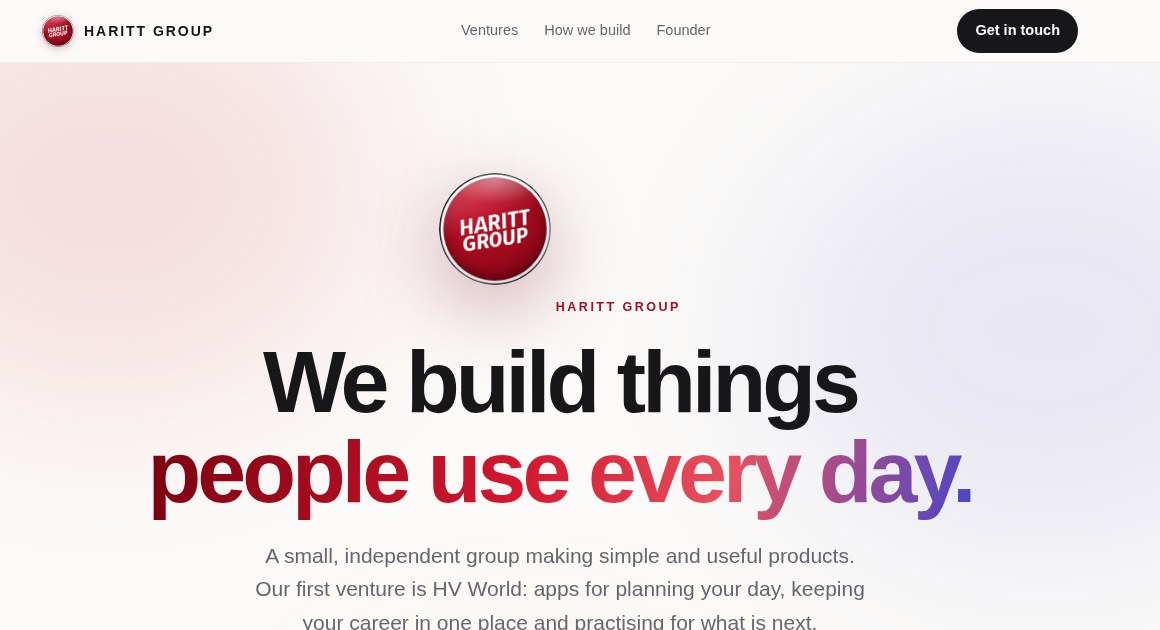
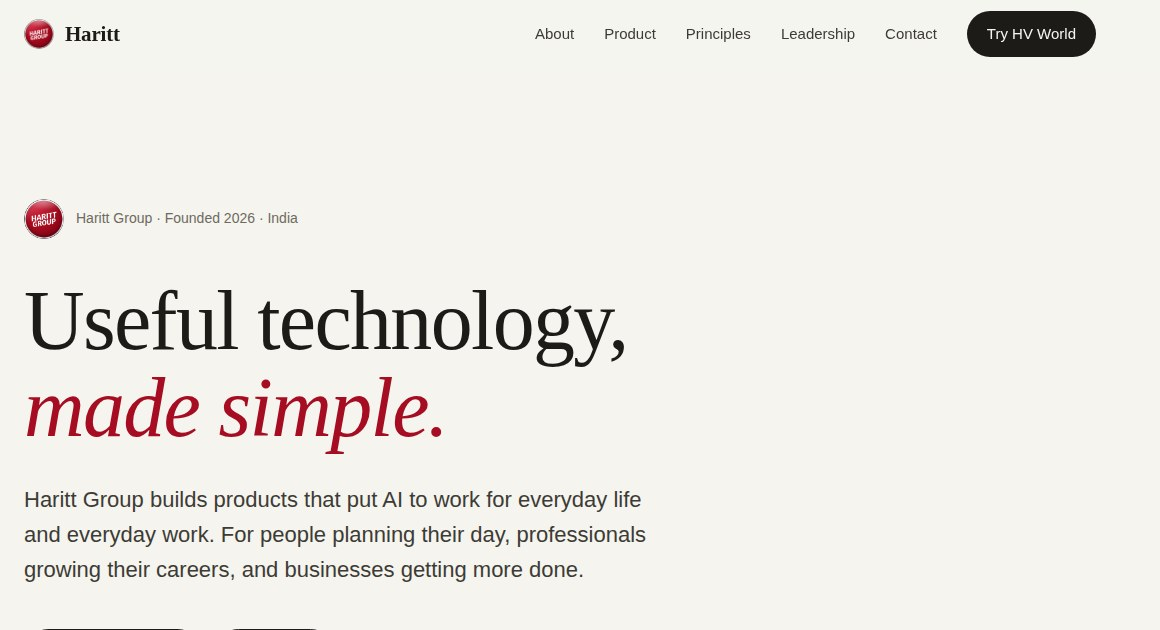
HV World update

diff --git a/index.html b/index.html
@@ -1,75 +1,272 @@
-<!DOCTYPE html><html lang="en"><head><meta charset="utf-8"><meta name="viewport" content="width=device-width, initial-scale=1">
-<title>Haritt Group</title><meta name="description" content="Haritt Group builds simple, useful products for everyday life. Home of HV World.">
-<meta name="theme-color" content="#FBFAF8"><link rel="icon" href="/logo.png" type="image/png"><link rel="apple-touch-icon" href="/logo.png">
-<meta property="og:type" content="website"><meta property="og:site_name" content="Haritt Group"><meta property="og:title" content="Haritt Group"><meta property="og:description" content="Simple, useful products for everyday life. Home of HV World."><meta property="og:url" content="https://haritt.com/"><meta property="og:image" content="https://haritt.com/og.jpg"><meta name="twitter:card" content="summary_large_image"><meta name="twitter:image" content="https://haritt.com/og.jpg">
+<!DOCTYPE html>
+<html lang="en">
+<head>
+<meta charset="utf-8">
+<meta name="viewport" content="width=device-width, initial-scale=1">
+<title>Haritt Group · Useful technology, made simple</title>
+<meta name="description" content="Haritt Group builds simple, useful products with AI for individuals, professionals and businesses. Home of HV World.">
+<meta name="theme-color" content="#F5F4EF">
+<link rel="icon" href="/logo.png" type="image/png">
+<link rel="apple-touch-icon" href="/logo.png">
+<link rel="canonical" href="https://haritt.com/">
+<meta property="og:type" content="website">
+<meta property="og:site_name" content="Haritt Group">
+<meta property="og:title" content="Haritt Group · Useful technology, made simple">
+<meta property="og:description" content="We build simple, useful products with AI for individuals, professionals and businesses. Home of HV World.">
+<meta property="og:url" content="https://haritt.com/">
+<meta property="og:image" content="https://haritt.com/og.jpg">
+<meta name="twitter:card" content="summary_large_image">
+<meta name="twitter:image" content="https://haritt.com/og.jpg">
+<link rel="preconnect" href="https://fonts.googleapis.com">
+<link rel="preconnect" href="https://fonts.gstatic.com" crossorigin>
+<link href="https://fonts.googleapis.com/css2?family=Source+Serif+4:opsz,wght@8..60,400;8..60,500;8..60,600&family=Inter:wght@400;500;600&display=swap" rel="stylesheet">
+<script type="application/ld+json">{"@context":"https://schema.org","@type":"Organization","name":"Haritt Group","url":"https://haritt.com","logo":"https://haritt.com/logo.png","email":"hello@haritt.com","founder":{"@type":"Person","name":"Harsh Goyal"},"subOrganization":{"@type":"Organization","name":"HV World","url":"https://hvworld.haritt.com"}}</script>
 <style>
-:root{--ink:#17171A;--soft:#66666E;--faint:#8E8E96;--line:#ECEAE6;--bg:#FBFAF8;--red:#A70D22;--red2:#D3172F;--indigo:#4A46C9;--font:-apple-system,BlinkMacSystemFont,"SF Pro Display","SF Pro Text","Helvetica Neue",Helvetica,Arial,sans-serif}
-*{box-sizing:border-box}html{scroll-behavior:smooth;overflow-x:hidden}body{margin:0;background:var(--bg);color:var(--ink);font:17px/1.6 var(--font);-webkit-font-smoothing:antialiased;overflow-x:hidden}
-a{color:inherit}.w{max-width:1080px;margin:0 auto;padding:0 22px}
-nav{position:sticky;top:0;z-index:20;background:rgba(251,250,248,.78);-webkit-backdrop-filter:saturate(180%) blur(18px);backdrop-filter:saturate(180%) blur(18px);border-bottom:1px solid rgba(0,0,0,.05)}
-nav .w{display:flex;align-items:center;justify-content:space-between;height:62px}
-.br{display:flex;align-items:center;gap:10px;text-decoration:none;font-weight:700;letter-spacing:.14em;text-transform:uppercase;font-size:14px}.br img{width:32px;height:32px;border-radius:50%;filter:drop-shadow(0 2px 4px rgba(120,0,20,.25))}
-nav .lk{display:flex;gap:26px;font-size:14.5px}nav .lk a{text-decoration:none;color:var(--soft)}nav .lk a:hover{color:var(--ink)}
-.cta{display:inline-flex;align-items:center;gap:8px;text-decoration:none;font-weight:650;font-size:14.5px;padding:10px 18px;border-radius:99px;background:var(--ink);color:#fff;transition:transform .2s}.cta:hover{transform:translateY(-1px)}
-@media (max-width:700px){nav .lk{display:none}}
-.hero{position:relative;overflow:hidden;padding:110px 0 90px;text-align:center}
-.hero .gl{position:absolute;inset:0;pointer-events:none}.hero .gl i{position:absolute;border-radius:50%;filter:blur(90px);opacity:.55}
-.hero .gl i:nth-child(1){width:520px;height:420px;left:-120px;top:-80px;background:rgba(211,23,47,.22);animation:fl 14s ease-in-out infinite}
-.hero .gl i:nth-child(2){width:560px;height:460px;right:-160px;top:40px;background:rgba(74,70,201,.18);animation:fl 18s ease-in-out infinite reverse}
-.hero .gl i:nth-child(3){width:420px;height:300px;left:30%;bottom:-180px;background:rgba(242,192,99,.22);animation:fl 16s ease-in-out infinite}
-@keyframes fl{50%{transform:translate(30px,-20px) scale(1.06)}}
-.mark{width:112px;height:112px;margin:0 auto 26px;border-radius:50%;filter:drop-shadow(0 22px 40px rgba(120,0,20,.32));animation:up 1s cubic-bezier(.22,1,.36,1) both}
-.kick{display:inline-flex;align-items:center;gap:8px;font-size:12.5px;font-weight:700;letter-spacing:.2em;text-transform:uppercase;color:var(--red);animation:up 1s .08s cubic-bezier(.22,1,.36,1) both}
-h1{font-size:clamp(44px,7.4vw,88px);line-height:1.02;letter-spacing:-.045em;margin:18px auto 0;max-width:900px;font-weight:750;animation:up 1s .16s cubic-bezier(.22,1,.36,1) both}
-h1 span{background:linear-gradient(100deg,#7A0010,#D3172F 45%,#E8505F 70%,#4A46C9);-webkit-background-clip:text;background-clip:text;color:transparent}
-.lead{font-size:clamp(18px,2.2vw,21px);color:var(--soft);max-width:620px;margin:22px auto 0;animation:up 1s .24s cubic-bezier(.22,1,.36,1) both}
-.btns{display:flex;gap:12px;justify-content:center;flex-wrap:wrap;margin-top:34px;animation:up 1s .32s cubic-bezier(.22,1,.36,1) both}
-.ghost{background:#fff;color:var(--ink);border:1px solid var(--line)}
-@keyframes up{from{opacity:0;transform:translateY(18px)}to{opacity:1;transform:none}}
-section{padding:80px 0}.sh{text-align:center;margin-bottom:40px}.eb{font-size:12.5px;font-weight:700;letter-spacing:.2em;text-transform:uppercase;color:var(--red)}
-h2{font-size:clamp(32px,4.6vw,48px);letter-spacing:-.035em;line-height:1.08;margin:12px 0 0}.sh p{color:var(--soft);max-width:560px;margin:14px auto 0}
-.card{background:rgba(255,255,255,.82);border:1px solid var(--line);border-radius:26px;box-shadow:0 1px 2px rgba(0,0,0,.03),0 22px 48px -30px rgba(60,20,30,.35)}
-.v{display:grid;grid-template-columns:1.25fr 1fr 1fr;gap:16px}@media (max-width:900px){.v{grid-template-columns:1fr}}
-.vc{padding:28px;display:flex;flex-direction:column;gap:12px;text-decoration:none;transition:transform .35s cubic-bezier(.22,1,.36,1),box-shadow .35s}.vc:hover{transform:translateY(-4px)}
-.vc .ic{width:56px;height:56px;border-radius:16px;display:grid;place-items:center;flex:none}.vc .ic svg{width:56px;height:56px;border-radius:16px}
-.vc h3{margin:6px 0 0;font-size:24px;letter-spacing:-.02em}.vc p{margin:0;color:var(--soft);font-size:15.5px}
-.tag{align-self:flex-start;font-size:11.5px;font-weight:800;letter-spacing:.06em;text-transform:uppercase;padding:5px 11px;border-radius:99px}
-.tag.live{background:rgba(18,122,79,.1);color:#127A4F}.tag.soon{background:rgba(167,13,34,.08);color:var(--red)}
-.pills{display:flex;flex-wrap:wrap;gap:8px;margin-top:4px}.pills span{font-size:13px;font-weight:600;padding:6px 12px;border-radius:99px;background:#F4F3F0;color:#3A3A40}
-.go{margin-top:auto;padding-top:10px;font-weight:650;font-size:15px;color:var(--indigo)}
-.big{background:linear-gradient(160deg,#fff,#F7F5FF)}
-.ic.m{background:linear-gradient(135deg,#1A1A1F,#3A3A44);color:#fff;font-weight:800}.ic.y{background:linear-gradient(135deg,#C4122A,#FF4D5E)}
-.ic svg.s{width:26px!important;height:26px!important;border-radius:0!important;fill:#fff}
-.vals{display:grid;grid-template-columns:repeat(3,1fr);gap:16px}@media (max-width:900px){.vals{grid-template-columns:1fr}}
-.val{padding:26px}.val b{display:block;font-size:19px;letter-spacing:-.01em}.val p{margin:8px 0 0;color:var(--soft);font-size:15.5px}.val .n{font-size:13px;font-weight:800;color:var(--red);letter-spacing:.1em}
-.fd{display:grid;grid-template-columns:auto 1fr;gap:28px;align-items:center;padding:34px}@media (max-width:700px){.fd{grid-template-columns:1fr;text-align:center}}
-.av{width:96px;height:96px;border-radius:50%;background:linear-gradient(135deg,#7A0010,#D3172F);color:#fff;display:grid;place-items:center;font-size:34px;font-weight:750;margin:0 auto;box-shadow:0 18px 36px -16px rgba(120,0,20,.6)}
-.fd h3{margin:0;font-size:26px;letter-spacing:-.02em}.fd .r{color:var(--red);font-weight:650;font-size:14.5px;margin-top:2px}.fd p{margin:12px 0 0;color:var(--soft)}
-.ct{text-align:center;padding:56px 28px}.ct a.mail{display:inline-block;margin-top:18px;font-size:clamp(22px,3.6vw,34px);font-weight:700;letter-spacing:-.02em;text-decoration:none;background:linear-gradient(100deg,#7A0010,#D3172F,#4A46C9);-webkit-background-clip:text;background-clip:text;color:transparent}
-footer{padding:40px 0 50px;color:var(--faint);font-size:14px}footer .w{display:flex;justify-content:space-between;align-items:center;gap:16px;flex-wrap:wrap}
-.rv{opacity:0;transform:translateY(20px);transition:opacity .8s ease,transform .9s cubic-bezier(.22,1,.36,1)}.rv.in{opacity:1;transform:none}
-@media (prefers-reduced-motion:reduce){*{animation:none!important;transition:none!important}.rv{opacity:1;transform:none}}
-</style></head><body>
-<nav><div class="w"><a class="br" href="/"><img src="/logo.png" alt="Haritt Group logo">Haritt Group</a><div class="lk"><a href="#ventures">Ventures</a><a href="#how">How we build</a><a href="#founder">Founder</a></div><a class="cta" href="#contact">Get in touch</a></div></nav>
-<header class="hero"><div class="gl" aria-hidden="true"><i></i><i></i><i></i></div><div class="w">
-<img class="mark" src="/logo.png" alt="Haritt Group">
-<div class="kick">Haritt Group</div>
-<h1>We build things<br><span>people use every day.</span></h1>
-<p class="lead">A small, independent group making simple and useful products. Our first venture is HV World: apps for planning your day, keeping your career in one place and practising for what is next.</p>
-<div class="btns"><a class="cta" href="https://harshvittori.github.io/">Visit HV World →</a><a class="cta ghost" href="#ventures">Our ventures</a></div>
+:root{
+  --bg:#F5F4EF;--bg2:#EDEBE3;--card:#FBFAF7;--ink:#1C1B18;--ink2:#3D3B35;--muted:#6E6A60;--faint:#9A968B;--line:#DEDBD1;
+  --red:#A70D22;--serif:"Source Serif 4",Georgia,"Times New Roman",serif;--sans:"Inter",-apple-system,BlinkMacSystemFont,"Segoe UI",Helvetica,Arial,sans-serif
+}
+*{box-sizing:border-box}
+html{scroll-behavior:smooth;-webkit-text-size-adjust:100%}
+body{margin:0;background:var(--bg);color:var(--ink);font:17px/1.65 var(--sans);-webkit-font-smoothing:antialiased;overflow-x:hidden}
+a{color:inherit}
+.w{max-width:1120px;margin:0 auto;padding:0 24px}
+.nar{max-width:760px}
+/* nav */
+nav{position:sticky;top:0;z-index:30;background:rgba(245,244,239,.86);-webkit-backdrop-filter:blur(14px);backdrop-filter:blur(14px);border-bottom:1px solid transparent;transition:border-color .3s}
+nav.sc{border-bottom-color:var(--line)}
+nav .w{display:flex;align-items:center;justify-content:space-between;height:68px}
+.br{display:flex;align-items:center;gap:11px;text-decoration:none}
+.br img{width:30px;height:30px;border-radius:50%}
+.br span{font-family:var(--serif);font-size:21px;font-weight:600;letter-spacing:-.01em}
+.lk{display:flex;align-items:center;gap:30px;font-size:15px}
+.lk a{text-decoration:none;color:var(--ink2)}
+.lk a:hover{color:var(--ink)}.lk a.btn,.lk a.btn:hover{color:var(--bg)}
+.btn{display:inline-flex;align-items:center;gap:8px;text-decoration:none;font-weight:500;font-size:15px;padding:11px 20px;border-radius:999px;background:var(--ink);color:var(--bg);transition:background .2s,transform .2s}
+.btn:hover{background:#000;transform:translateY(-1px)}
+.btn.o{background:transparent;color:var(--ink);border:1px solid var(--ink)}
+.btn.o:hover{background:var(--ink);color:var(--bg)}
+.menu{display:none;background:none;border:0;padding:8px;cursor:pointer}
+.menu i{display:block;width:22px;height:2px;background:var(--ink);margin:5px 0;border-radius:2px}
+@media (max-width:860px){.lk{display:none}.menu{display:block}
+  nav.open .lk{display:flex;position:absolute;top:68px;left:0;right:0;flex-direction:column;align-items:flex-start;gap:18px;padding:22px 24px 28px;background:var(--bg);border-bottom:1px solid var(--line)}}
+/* type */
+.eb{font-size:13px;font-weight:600;letter-spacing:.14em;text-transform:uppercase;color:var(--muted)}
+h1,h2,h3{font-family:var(--serif);font-weight:500;letter-spacing:-.02em;margin:0}
+h1{font-size:clamp(44px,7vw,84px);line-height:1.04}
+h2{font-size:clamp(34px,4.6vw,54px);line-height:1.1}
+h3{font-size:24px;line-height:1.25}
+.lead{font-size:clamp(19px,2.1vw,22px);line-height:1.6;color:var(--ink2)}
+p{margin:0}
+section{padding:120px 0;border-top:1px solid var(--line)}
+@media (max-width:700px){section{padding:84px 0}}
+/* hero */
+.hero{padding:130px 0 120px;border-top:0}
+.hero h1 em{font-style:italic;color:var(--red)}
+.hero .lead{margin-top:30px;max-width:640px}
+.hero .cta{display:flex;gap:12px;flex-wrap:wrap;margin-top:42px}
+.mark{display:flex;align-items:center;gap:12px;margin-bottom:38px;color:var(--muted);font-size:14px}
+.mark img{width:40px;height:40px;border-radius:50%}
+/* about */
+.two{display:grid;grid-template-columns:1fr 1.35fr;gap:72px;align-items:start}
+@media (max-width:860px){.two{grid-template-columns:1fr;gap:28px}}
+.two .txt p+p{margin-top:20px}
+.two .txt p{font-size:19px;color:var(--ink2)}
+/* mission/vision */
+.mv{display:grid;grid-template-columns:1fr 1fr;gap:0;border:1px solid var(--line);border-radius:22px;overflow:hidden;background:var(--card);margin-top:56px}
+@media (max-width:760px){.mv{grid-template-columns:1fr}}
+.mv>div{padding:44px}
+.mv>div+div{border-left:1px solid var(--line)}
+@media (max-width:760px){.mv>div+div{border-left:0;border-top:1px solid var(--line)}}
+.mv .eb{color:var(--red)}
+.mv p{font-family:var(--serif);font-size:clamp(23px,2.6vw,30px);line-height:1.32;margin-top:16px;letter-spacing:-.01em}
+/* who */
+.who{display:grid;grid-template-columns:repeat(3,1fr);gap:20px;margin-top:56px}
+@media (max-width:860px){.who{grid-template-columns:1fr}}
+.wc{background:var(--card);border:1px solid var(--line);border-radius:20px;padding:30px}
+.wc .n{font-family:var(--serif);font-size:15px;color:var(--faint)}
+.wc h3{margin-top:14px}
+.wc p{margin-top:10px;color:var(--muted);font-size:16px}
+/* product */
+.prod{display:grid;grid-template-columns:1.05fr 1fr;gap:0;background:#1C1B18;color:#F5F4EF;border-radius:28px;overflow:hidden;margin-top:56px}
+@media (max-width:900px){.prod{grid-template-columns:1fr}}
+.prod .l{padding:56px}
+@media (max-width:600px){.prod .l{padding:34px}}
+.prod .l .eb{color:#B9B4A7}
+.prod h3{font-size:clamp(34px,4vw,46px);margin-top:14px}
+.prod .l p{color:#CFCABE;margin-top:16px;font-size:17.5px}
+.prod .l .btn{background:#F5F4EF;color:#1C1B18;margin-top:30px}
+.prod .r{border-left:1px solid #34322D;display:flex;flex-direction:column}
+@media (max-width:900px){.prod .r{border-left:0;border-top:1px solid #34322D}}
+.app{padding:28px 40px;border-bottom:1px solid #34322D;display:grid;grid-template-columns:auto 1fr;gap:18px;align-items:start;text-decoration:none;transition:background .25s}
+.app:last-child{border-bottom:0}
+.app:hover{background:#24231F}
+.app i{width:40px;height:40px;border-radius:11px;display:grid;place-items:center;font-style:normal;font-weight:600;font-size:14px;color:#fff}
+.app b{display:block;font-weight:600;font-size:17px}
+.app span{display:block;color:#ADA89B;font-size:15px;margin-top:2px}
+/* principles */
+.pr{display:grid;grid-template-columns:repeat(2,1fr);gap:0;margin-top:56px;border-top:1px solid var(--line)}
+@media (max-width:760px){.pr{grid-template-columns:1fr}}
+.pr>div{padding:36px 36px 36px 0;border-bottom:1px solid var(--line)}
+.pr>div:nth-child(even){padding-left:36px;border-left:1px solid var(--line)}
+@media (max-width:760px){.pr>div,.pr>div:nth-child(even){padding:30px 0;border-left:0}}
+.pr h3{font-size:23px}
+.pr p{margin-top:10px;color:var(--muted)}
+/* founder */
+.fd{display:grid;grid-template-columns:auto 1fr;gap:44px;align-items:center;margin-top:56px;background:var(--card);border:1px solid var(--line);border-radius:24px;padding:44px}
+@media (max-width:700px){.fd{grid-template-columns:1fr;gap:24px;padding:32px}}
+.av{width:120px;height:120px;border-radius:50%;background:var(--bg2);border:1px solid var(--line);display:grid;place-items:center;font-family:var(--serif);font-size:42px;color:var(--ink2)}
+.fd h3{font-size:30px}
+.fd .r{color:var(--red);font-weight:500;font-size:15px;margin-top:4px}
+.fd p{margin-top:14px;color:var(--ink2)}
+.fd .lnk{display:inline-block;margin-top:16px;font-weight:500;font-size:15px;text-underline-offset:4px}
+/* road */
+.rd{margin-top:56px;display:grid;grid-template-columns:repeat(3,1fr);gap:20px}
+@media (max-width:860px){.rd{grid-template-columns:1fr}}
+.rc{border-top:2px solid var(--ink);padding-top:22px}
+.rc.f{border-top-color:var(--line)}
+.rc .t{font-size:13px;font-weight:600;letter-spacing:.12em;text-transform:uppercase;color:var(--muted)}
+.rc h3{margin-top:10px;font-size:22px}
+.rc p{margin-top:8px;color:var(--muted);font-size:16px}
+/* contact */
+.ct{text-align:center}
+.ct h2{max-width:760px;margin:0 auto}
+.ct .lead{margin:22px auto 0;max-width:560px}
+.ct .cta{display:flex;gap:12px;justify-content:center;flex-wrap:wrap;margin-top:36px}
+.mails{display:flex;gap:40px;justify-content:center;flex-wrap:wrap;margin-top:44px;font-size:15px;color:var(--muted)}
+.mails a{color:var(--ink);font-weight:500;text-underline-offset:4px}
+/* footer */
+footer{border-top:1px solid var(--line);padding:56px 0 48px;font-size:14.5px;color:var(--muted)}
+.fg{display:grid;grid-template-columns:1.4fr 1fr 1fr 1fr;gap:32px}
+@media (max-width:760px){.fg{grid-template-columns:1fr 1fr}}
+.fg b{display:block;color:var(--ink);font-weight:600;margin-bottom:12px}
+.fg a{display:block;text-decoration:none;margin:7px 0}
+.fg a:hover{color:var(--ink)}
+.fb{display:flex;justify-content:space-between;gap:16px;flex-wrap:wrap;margin-top:48px;padding-top:24px;border-top:1px solid var(--line);font-size:13.5px}
+/* motion */
+.rv{opacity:0;transform:translateY(22px);transition:opacity .9s ease,transform 1s cubic-bezier(.2,.7,.2,1)}
+.rv.in{opacity:1;transform:none}
+@media (prefers-reduced-motion:reduce){*{transition:none!important;animation:none!important}.rv{opacity:1;transform:none}}
+</style>
+</head>
+<body>
+<nav id="nav"><div class="w">
+  <a class="br" href="/"><img src="/logo.png" alt="Haritt Group logo"><span>Haritt</span></a>
+  <div class="lk">
+    <a href="#about">About</a><a href="#product">Product</a><a href="#principles">Principles</a><a href="#founder">Leadership</a><a href="#contact">Contact</a>
+    <a class="btn" href="https://hvworld.haritt.com/">Try HV World</a>
+  </div>
+  <button class="menu" id="menu" aria-label="Open menu"><i></i><i></i><i></i></button>
+</div></nav>
+
+<header class="hero"><div class="w">
+  <div class="mark rv"><img src="/logo.png" alt=""><span>Haritt Group · Founded 2026 · India</span></div>
+  <h1 class="rv">Useful technology,<br><em>made simple.</em></h1>
+  <p class="lead rv">Haritt Group builds products that put AI to work for everyday life and everyday work. For people planning their day, professionals growing their careers, and businesses getting more done.</p>
+  <div class="cta rv"><a class="btn" href="https://hvworld.haritt.com/">Explore HV World →</a><a class="btn o" href="#about">About Haritt</a></div>
 </div></header>
-<section id="ventures"><div class="w"><div class="sh rv"><div class="eb">Ventures</div><h2>One group, many things.</h2><p>Haritt is the umbrella. Each venture has its own name and team, and shares the same care.</p></div>
-<div class="v">
-<a class="card vc big rv" href="https://harshvittori.github.io/"><span class="ic"><svg viewBox="0 0 48 48" aria-hidden="true"><defs><linearGradient id="hvw" x1="0" y1="0" x2="1" y2="1"><stop offset="0" stop-color="#1C2A6B"/><stop offset=".6" stop-color="#4A46C9"/><stop offset="1" stop-color="#7C5CE0"/></linearGradient><radialGradient id="hvwc" cx=".4" cy=".35" r=".7"><stop offset="0" stop-color="#FFFFFF"/><stop offset="1" stop-color="#C9D3FF"/></radialGradient></defs><rect width="48" height="48" rx="12" fill="url(#hvw)"/><ellipse cx="24" cy="24" rx="16.5" ry="7.5" fill="none" stroke="#fff" stroke-opacity=".55" stroke-width="1.8" transform="rotate(-24 24 24)"/><circle cx="24" cy="24" r="6.2" fill="url(#hvwc)"/><circle cx="37.6" cy="17.9" r="3.3" fill="#F2C063"/><circle cx="10.4" cy="30.1" r="3.3" fill="#34C77B"/><circle cx="17.4" cy="14.6" r="2.6" fill="#F2A77E"/></svg></span><span class="tag live">Live</span><h3>HV World</h3><p>A family of free apps that help you plan, focus and grow.</p><div class="pills"><span>HV Reset</span><span>HV Vault</span><span>HV Test</span><span>HV AI</span></div><span class="go">Open HV World →</span></a>
-<div class="card vc rv"><span class="ic m">HM</span><span class="tag soon">Coming soon</span><h3>Haritt Media</h3><p>Design, video and digital work for people and small businesses.</p></div>
-<div class="card vc rv"><span class="ic y"><svg class="s" viewBox="0 0 24 24" aria-hidden="true"><path d="M9.5 7.5v9l7-4.5z"/></svg></span><span class="tag soon">Coming soon</span><h3>Haritt on YouTube</h3><p>Stories, guides and behind-the-scenes from what we build.</p></div>
-</div></div></section>
-<section id="how"><div class="w"><div class="sh rv"><div class="eb">How we build</div><h2>Small team. Big care.</h2></div>
-<div class="vals"><div class="card val rv"><div class="n">01</div><b>Useful first</b><p>We build for real days, not for demos. If it does not help, it does not ship.</p></div>
-<div class="card val rv"><div class="n">02</div><b>Simple by design</b><p>Clean screens, plain words, no clutter. Anyone should get it in a minute.</p></div>
-<div class="card val rv"><div class="n">03</div><b>Private and honest</b><p>Your data stays yours. We say what we do, and we do what we say.</p></div></div></div></section>
-<section id="founder"><div class="w"><div class="card fd rv"><div class="av">HG</div><div><h3>Harsh Goyal</h3><div class="r">Founder, Haritt Group</div><p>Harsh started Haritt to turn everyday problems into simple products, beginning with HV World. He leads product, design and building.</p></div></div></div></section>
-<section id="contact"><div class="w"><div class="card ct rv"><div class="eb">Contact</div><h2>Let’s talk.</h2><p style="color:var(--soft);margin:12px auto 0;max-width:520px">For partnerships, feedback or just to say hello.</p><a class="mail" href="mailto:hello@haritt.com">hello@haritt.com</a></div></div></section>
-<footer><div class="w"><span>© 2026 Haritt Group</span><span>Made in India · <a href="https://harshvittori.github.io/">HV World</a></span></div></footer>
-<script>var io="IntersectionObserver" in window?new IntersectionObserver(function(es){es.forEach(function(e){if(e.isIntersecting){e.target.classList.add("in");io.unobserve(e.target);}});},{threshold:.12}):null;document.querySelectorAll(".rv").forEach(function(el,i){if(io){el.style.transitionDelay=(i%3)*70+"ms";io.observe(el);}else el.classList.add("in");});</script>
-</body></html>
+
+<section id="about"><div class="w">
+  <div class="two">
+    <div class="rv"><div class="eb">About us</div><h2 style="margin-top:14px">Why we exist.</h2></div>
+    <div class="txt rv">
+      <p>Powerful technology is everywhere, but most of it is built for experts. Ordinary people and small teams are left with tools that are complicated, expensive, or both.</p>
+      <p>Haritt Group was started to change that. We take what AI can do and turn it into products that anyone can open, understand in a minute, and use every day: to plan, to learn, to grow and to run their work.</p>
+      <p>We are an independent, founder-led company based in India, building for India first and for the world next.</p>
+    </div>
+  </div>
+  <div class="mv rv">
+    <div><div class="eb">Our mission</div><p>To make useful technology simple and accessible for everyone, from individuals to growing businesses.</p></div>
+    <div><div class="eb">Our vision</div><p>To become India’s most trusted home for simple, useful products that people rely on every day.</p></div>
+  </div>
+</div></section>
+
+<section><div class="w">
+  <div class="rv nar"><div class="eb">Who we build for</div><h2 style="margin-top:14px">From one person to a whole team.</h2></div>
+  <div class="who">
+    <div class="wc rv"><div class="n">01</div><h3>Individuals</h3><p>Students, homemakers and anyone who wants to understand themselves better and make the most of their time.</p></div>
+    <div class="wc rv"><div class="n">02</div><h3>Professionals</h3><p>People building a career, from the first application to the next role, with every opportunity in one place.</p></div>
+    <div class="wc rv"><div class="n">03</div><h3>Startups &amp; businesses</h3><p>Small teams that want AI to take busywork off their plate, without hiring a technical department.</p></div>
+  </div>
+</div></section>
+
+<section id="product"><div class="w">
+  <div class="rv nar"><div class="eb">Our product</div><h2 style="margin-top:14px">HV World.</h2><p class="lead" style="margin-top:18px">Our first product: a family of free apps, connected by one AI assistant that understands plain language, typed or spoken.</p></div>
+  <div class="prod rv">
+    <div class="l">
+      <div class="eb">Live · Free · In your browser</div>
+      <h3>One assistant.<br>Three apps.</h3>
+      <p>Tell HV AI what you need in your own words, and it plans your day, files a job lead or opens the right test. One sign-in works everywhere, and your data stays yours.</p>
+      <a class="btn" href="https://hvworld.haritt.com/">Open HV World →</a>
+    </div>
+    <div class="r">
+      <a class="app" href="https://hvworld.haritt.com/reset/"><i style="background:#4A72C8">R</i><div><b>HV Reset</b><span>Plan your day, one task at a time, with a personal dashboard for focus and progress.</span></div></a>
+      <a class="app" href="https://hvworld.haritt.com/vault/"><i style="background:#A87A22">V</i><div><b>HV Vault</b><span>Every job, company and follow-up in one place, from first application to offer.</span></div></a>
+      <a class="app" href="https://hvworld.haritt.com/test/"><i style="background:#127A4F">T</i><div><b>HV Test</b><span>Short tests that show your strengths and how you grow, with private results.</span></div></a>
+      <a class="app" href="https://hvworld.haritt.com/"><i style="background:#6D4FD6">AI</i><div><b>HV AI</b><span>The assistant inside every app. Speak or type in English, Hindi or Hinglish.</span></div></a>
+    </div>
+  </div>
+</div></section>
+
+<section id="principles"><div class="w">
+  <div class="rv nar"><div class="eb">Our principles</div><h2 style="margin-top:14px">How we build.</h2></div>
+  <div class="pr">
+    <div class="rv"><h3>Useful before impressive</h3><p>Every feature has to make someone’s day easier. If it does not help, it does not ship.</p></div>
+    <div class="rv"><h3>Simple by design</h3><p>Plain words, clean screens and no learning curve. Anyone should get it in a minute.</p></div>
+    <div class="rv"><h3>Private by default</h3><p>Your data belongs to you. We collect only what a feature needs and never sell it.</p></div>
+    <div class="rv"><h3>Honest and accessible</h3><p>Free where we can be, clear about what we do, and built to work for people across India.</p></div>
+  </div>
+</div></section>
+
+<section><div class="w">
+  <div class="rv nar"><div class="eb">What’s next</div><h2 style="margin-top:14px">Where we are going.</h2></div>
+  <div class="rd">
+    <div class="rc rv"><div class="t">Now</div><h3>HV World</h3><p>Growing HV Reset, HV Vault and HV Test, and making HV AI smarter with every release.</p></div>
+    <div class="rc rv"><div class="t">Next</div><h3>AI for teams</h3><p>Bringing the same simple AI to small teams and startups, so they can plan and work faster together.</p></div>
+    <div class="rc f rv"><div class="t">Later</div><h3>More products</h3><p>New products under the Haritt name, each solving one everyday problem well.</p></div>
+  </div>
+</div></section>
+
+<section id="founder"><div class="w">
+  <div class="rv nar"><div class="eb">Leadership</div><h2 style="margin-top:14px">Founder-led.</h2></div>
+  <div class="fd rv">
+    <div class="av">HG</div>
+    <div>
+      <h3>Harsh Goyal</h3>
+      <div class="r">Founder, Haritt Group</div>
+      <p>Harsh founded Haritt Group to turn everyday problems into simple products. He leads product, design and engineering, and built HV World from the first line of code to launch.</p>
+      <a class="lnk" href="mailto:harsh@haritt.com">harsh@haritt.com</a>
+    </div>
+  </div>
+</div></section>
+
+<section id="contact" class="ct"><div class="w">
+  <div class="eb rv">Contact</div>
+  <h2 class="rv" style="margin-top:14px">Let’s build something useful together.</h2>
+  <p class="lead rv">Partnerships, feedback, press or careers: we read every message.</p>
+  <div class="cta rv"><a class="btn" href="mailto:hello@haritt.com">Email us</a><a class="btn o" href="https://hvworld.haritt.com/">Try HV World</a></div>
+  <div class="mails rv"><div>General<br><a href="mailto:hello@haritt.com">hello@haritt.com</a></div><div>Founder<br><a href="mailto:harsh@haritt.com">harsh@haritt.com</a></div></div>
+</div></section>
+
+<footer><div class="w">
+  <div class="fg">
+    <div><a class="br" href="/" style="margin:0"><img src="/logo.png" alt=""><span>Haritt</span></a><p style="margin-top:14px;max-width:280px">Useful technology, made simple. Built in India.</p></div>
+    <div><b>Company</b><a href="#about">About</a><a href="#principles">Principles</a><a href="#founder">Leadership</a><a href="#contact">Contact</a></div>
+    <div><b>Product</b><a href="https://hvworld.haritt.com/">HV World</a><a href="https://hvworld.haritt.com/reset/">HV Reset</a><a href="https://hvworld.haritt.com/vault/">HV Vault</a><a href="https://hvworld.haritt.com/test/">HV Test</a></div>
+    <div><b>Legal</b><a href="https://hvworld.haritt.com/privacy/">Privacy</a><a href="https://hvworld.haritt.com/terms/">Terms</a></div>
+  </div>
+  <div class="fb"><span>© 2026 Haritt Group. All rights reserved.</span><span>hello@haritt.com</span></div>
+</div></footer>
+
+<script>
+(function(){
+  var nav=document.getElementById("nav");
+  addEventListener("scroll",function(){ nav.classList.toggle("sc",scrollY>8); },{passive:true});
+  document.getElementById("menu").onclick=function(){ nav.classList.toggle("open"); };
+  nav.querySelectorAll(".lk a").forEach(function(a){ a.addEventListener("click",function(){ nav.classList.remove("open"); }); });
+  var io="IntersectionObserver" in window?new IntersectionObserver(function(es){ es.forEach(function(e){ if(e.isIntersecting){ e.target.classList.add("in"); io.unobserve(e.target); } }); },{threshold:.12}):null;
+  document.querySelectorAll(".rv").forEach(function(el,i){ if(io){ el.style.transitionDelay=(i%3)*80+"ms"; io.observe(el); } else el.classList.add("in"); });
+})();
+</script>
+</body>
+</html>
